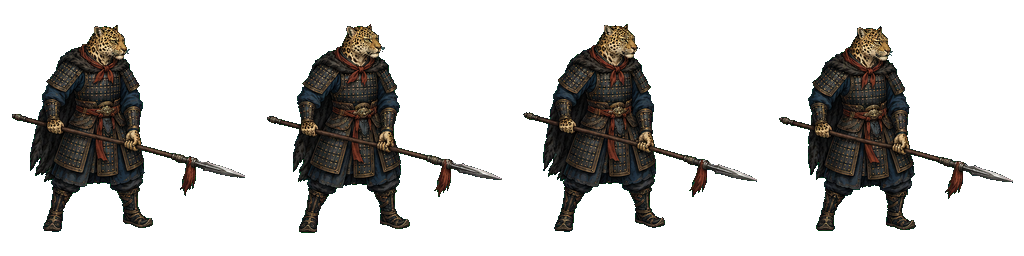
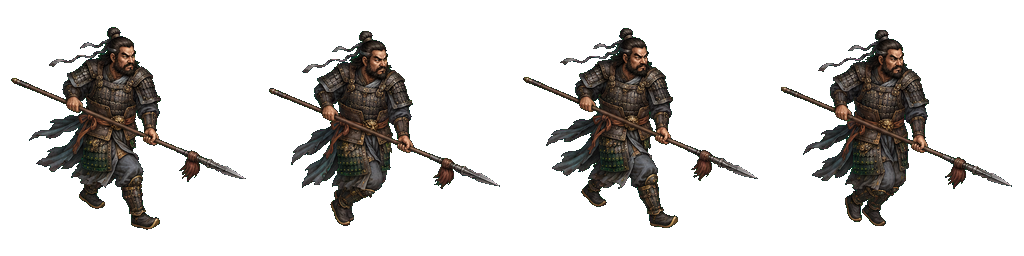
林冲站立图修复 + 108将图鉴美术生成需求MD（交Codex出图）
- 修复林冲 idle 立绘把诨名「豹子头」误画成豹子脑袋：用其干净的 walk 帧带顶替
  lin_chong_idle.png（站立=轻微踏步，人物正确）；豹头版备份在 scratchpad
- 新增 ART_REQUEST_108.md：为图鉴补齐梁山一百单八将美术的完整 Codex 出图需求——
  绿幕2×2走/攻模板 + 浅灰3×3头像模板 + 全108将逐人 CHAR 外形锁定 + 头像分张表
  + 走攻文件清单 + zip 打包指令。用户交 Codex 出图、回传 zip，我侧切图管线接入引擎

diff --git a/ART_REQUEST_108.md b/ART_REQUEST_108.md
@@ -1,0 +1,252 @@
+# 水浒一百单八将 · 图鉴美术生成需求（交 Codex 出图）
+
+本文件给 **Codex / 图像模型** 出图用。目标：为《水浒英雄传》图鉴补齐**梁山一百单八将**的美术。
+每将三类图：**头像**（图鉴大图）、**移动动画**、**攻击动画**。出完按 §6 打包成一个 zip 发回即可，
+我这边有切图管线（绿幕抠像 + 头像九宫切分）自动导入引擎。
+
+> 体量提示：108 将里约 30 位已有立绘（见 §5 标「已有」者**跳过**）。需新作的约 **78 位**。
+> 头像走九宫拼图（9人/张，约 9 张）；走/攻是每人一张绿幕 2×2（约 78×2≈156 张）。
+> **建议分批跑**：先跑 §3「天罡 36」，验证质量与命名无误后再跑 §4「地煞 72」。
+
+---
+
+## 0. 通用规范（所有图必须遵守）
+
+- **画风**：南宋工笔（gongbi）水浒人物画，线描精细、设色古雅；游戏 AoE2 式 **斜 45° 俯视**，角色 **3/4 侧身朝右**。
+- **两种背景，严格区分**：
+  - **头像图**：纯 **浅灰底**（约 `#d9d9d9`，左右一致、无渐变无纹理），**3×3 九宫格**，每格一人**胸像/半身**，居中。
+  - **走/攻动画图**：纯 **绿幕底**（chroma green `#00b140`，纯色无渐变），**2×2 四格**，每格一帧全身像。
+- **一致性铁律（最重要）**：同一武将的**头像 / 走 / 攻**三张图，以及走/攻的**四帧之间**，必须是**同一个人**——
+  同样的脸型、胡须、发冠、衣甲款式、**配色**、武器。每个武将我给了一段 **CHAR 外形锁定**（见 §3/§4），
+  **三张图都照抄这段 CHAR**，只改动作。宁可朴素一致，**不要每张漂成另一个人**。
+- **无文字**：图上不要写字、不要花名、不要边框装饰。
+- **人物为主**：占满格、动作清晰可辨；兵器、招式要能一眼看出身份。
+
+---
+
+## 1. 走 / 攻动画模板（绿幕 2×2，每人两张）
+
+> 用法：把某将的 `CHAR` 段填进 `<CHAR>`，分别套「走」和「攻」两套帧描述，各出一张 2×2 绿幕图。
+> 文件名：走 = `walk_<key>.png`，攻 = `attack_<key>.png`（`<key>` 见 §3/§4）。
+
+**共用头（HEADER）**
+```
+Song-dynasty Chinese gongbi painting, Water Margin hero. Top-down 3/4 isometric game view (AoE2 angle),
+character facing RIGHT. FLAT PURE GREEN screen background #00b140, no shadow on ground, no border lines.
+A 2x2 grid = 4 animation keyframes of THE SAME character, IDENTICAL face/beard/headwear/armor/COLORS/weapon
+in all four cells. <CHAR>
+```
+
+**走（walk cycle）帧块**
+```
+WALK CYCLE, 4 keyframes (read left→right, top→bottom):
+[TL] contact pose, right foot forward, weight on right leg;
+[TR] passing pose, legs together and lifted, mid-stride;
+[BL] contact pose, left foot forward, weight on left leg;
+[BR] passing pose, legs together, mid-stride. Natural marching gait, weapon held ready.
+```
+
+**攻（attack）帧块**
+```
+ATTACK swing, 4 keyframes (read left→right, top→bottom):
+[TL] wind-up, weapon drawn back;
+[TR] step-in, weapon rising;
+[BL] full strike, weapon thrust/slashed forward at the enemy (most extended);
+[BR] recover, weapon returning. Powerful, readable martial action with the character's signature weapon.
+```
+
+> 远程将（弓/弩/飞石/飞枪/火炮）：攻击块改为「举弓→拉满→放箭/掷出→收势」之类对应动作（CHAR 里注明武器）。
+> 法术将（公孙胜、樊瑞、凌振等）：攻击块改为「掐诀→凝法→掷出符火/雷火→收势」。
+
+---
+
+## 2. 头像模板（浅灰 3×3，9 人一张）
+
+> 一张图画 9 个人的胸像，3×3 排列。我按 §5 的「头像分张表」给出每张图的 9 个人与**格位顺序**
+> （从左到右、从上到下：格1=左上 … 格9=右下）。文件名：`portraits<N>_raw.png`（N 见 §5）。
+
+```
+Nine separate Song-dynasty gongbi BUST portraits of Water Margin heroes in a clean 3x3 grid,
+FLAT LIGHT-GRAY background #d9d9d9 (uniform, no gradient), each face centered in its cell,
+no text, no frame. Each person matches their CHAR description exactly (face/beard/headwear/COLORS).
+Order left→right, top→bottom:
+1) <CHAR person 1> ; 2) <CHAR person 2> ; 3) <CHAR person 3> ;
+4) <...> ; 5) <...> ; 6) <...> ; 7) <...> ; 8) <...> ; 9) <...>
+```
+
+---
+
+## 3. 天罡星 三十六员（座次 · 星号 · 诨名 · 姓名 · key · CHAR 外形锁定）
+
+> 「已有」= 引擎里已有立绘，**美术可跳过**（仍列出供命名/校对一致）。其余请按 §1/§2 出三类图。
+
+1. **天魁星 · 呼保义 · 宋江** `song_jiang` —— 已有。CHAR：中年文官将领，面白微须，戴黑色软翅幞头，深橄榄褐战袍罩鎏金札甲、玄色披风，腰悬佩剑，神色沉稳。
+2. **天罡星 · 玉麒麟 · 卢俊义** `lu_junyi` —— 仪表堂堂的高大武将，白净方面、五绺长须，束金抹额、银白鱼鳞甲配月白战袍，手持一杆点钢长枪，贵气逼人。
+3. **天机星 · 智多星 · 吴用** `wu_yong` —— 已有。CHAR：清癯文士军师，戴东坡巾、三缕须，茶褐道袍，手摇羽扇，腰挂铜链，目光精明。
+4. **天闲星 · 入云龙 · 公孙胜** `gongsun_sheng` —— 已有。CHAR：青须道士，戴青色道冠、石青/teal 道袍绣云纹，手掐法诀或持松纹古剑，仙风道骨。
+5. **天勇星 · 大刀 · 关胜** `guan_sheng` —— 关羽嫡裔，重枣色面、卧蚕眉丹凤眼、五绺美髯过腹，绿锦战袍罩黄铜甲，横一柄青龙偃月大刀，威风凛凛。
+6. **天雄星 · 豹子头 · 林冲** `lin_chong` —— 已有（注意：是**人**，豹子头只是诨名＝豹头环眼似张飞，**绝不画豹子头**）。CHAR：威猛教头，浓眉环眼、络腮短须，束金抹额、深朱与玄黑扎甲，手持丈八蛇矛。
+7. **天猛星 · 霹雳火 · 秦明** `qin_ming` —— 性如烈火的猛将，紫膛脸、虬髯，朱红抹额配火焰纹明光铠、赤红战袍，舞一条狼牙棒（带刺），气势暴烈。
+8. **天威星 · 双鞭 · 呼延灼** `hu_yanzhuo` —— 已有。CHAR：开国名将后裔，黑面浓须，乌铁连环铠、玄青战袍，双手各持一条水磨钢鞭。
+9. **天英星 · 小李广 · 花荣** `hua_rong` —— 已有。CHAR：英俊年少将，眉清目秀无须，束银抹额、月白战袍配轻甲，背负雕弓、手搭羽箭，神射之姿。
+10. **天贵星 · 小旋风 · 柴进** `chai_jin` —— 后周皇族贵公子，白面俊雅、短须，戴玉抹额、华贵锦袍（宝蓝织金）罩薄甲，腰悬玉具剑，气度雍容。
+11. **天富星 · 扑天雕 · 李应** `li_ying` —— 庄园富豪武主，方面长须，深绛锦袍配乌金甲，背插五口飞刀、手持点钢枪，鹰目锐利。
+12. **天满星 · 美髯公 · 朱仝** `zhu_tong` —— 红润长脸、一部**及胸美髯**（似关公），戴皂巾、绛紫战袍配甲，手持朴刀，仪表堂堂。
+13. **天孤星 · 花和尚 · 鲁智深** `lu_zhishen` —— 已有。CHAR：彪形大汉僧人，光头、满背刺青、络腮虬髯，半披皂色直裰露胸膛，横一柄六十二斤水磨禅杖。
+14. **天伤星 · 行者 · 武松** `wu_song` —— 已有。CHAR：八尺头陀，方面英武、短须，皂布直裰、胸前挂念珠、戒箍束发，腰插双戒刀。
+15. **天立星 · 双枪将 · 董平** `dong_ping` —— 风流俊将，白面无须、英气勃勃，束金翎抹额、银甲红袍，**双手各持一杆长枪**，背旗书「英勇双枪」，潇洒善战。
+16. **天捷星 · 没羽箭 · 张清** `zhang_qing` —— 已有。CHAR：年少马将，俊面短须，束抹额、白袍轻甲，腰悬锦囊（盛石子），手扬一枚飞石作掷打势。
+17. **天暗星 · 青面兽 · 杨志** `yang_zhi` —— 已有。CHAR：杨家将后裔，**左脸一片青色胎记**，束发短须，靛青战袍配旧明光甲，背负宝刀。
+18. **天祐星 · 金枪手 · 徐宁** `xu_ning` —— 已有。CHAR：金枪班教师，俊朗短须，戴金抹额、赛唐猊雁翎圈金亮甲，手持一杆纯金枪（钩镰枪法）。
+19. **天空星 · 急先锋 · 索超** `suo_chao` —— 暴躁猛将，紫黑脸膛、虬髯，戴狻猊兜鍪插雉尾，深褐扎甲，抡一柄金蘸斧（大斧），冲锋之姿。
+20. **天速星 · 神行太保 · 戴宗** `dai_zong` —— 已有。CHAR：精瘦快腿，皂色公人短装，**两腿绑甲马符纸**，髡发短须，作疾行飞奔状。
+21. **天异星 · 赤发鬼 · 刘唐** `liu_tang` —— 已有。CHAR：江湖亡命汉，**鬓边一搭朱砂红记**、赤发，紫膛脸、虬髯，褐色短打，手持朴刀，凶悍。
+22. **天杀星 · 黑旋风 · 李逵** `li_kui` —— 已有。CHAR：黑凛凛铁塔大汉，乱发虬髯、赤膊或皂色坎肩，**双手各执一把板斧**，怒目暴烈。
+23. **天微星 · 九纹龙 · 史进** `shi_jin` —— 年少壮汉，**赤裸上身满刺九条青龙**，束发英挺，下着皂裤，手持一条三尖两刃刀，意气风发。
+24. **天究星 · 没遮拦 · 穆弘** `mu_hong` —— 揭阳镇豪强，魁伟方面、短须，深青锦袍配甲，手持朴刀，霸气外露。
+25. **天退星 · 插翅虎 · 雷横** `lei_heng` —— 郓城都头，黄须方脸、身形矫健，皂色公人劲装配护甲，手持朴刀，腰悬铁链，干练。
+26. **天寿星 · 混江龙 · 李俊** `li_jun` —— 水军头领，赤红面膛、短须，束巾、半身水靠（深青），手持长桨/朴刀，作踏浪之姿。
+27. **天剑星 · 立地太岁 · 阮小二** `ruan_brother` —— 已有（代表阮氏）。CHAR：石碣村渔户大哥，赤膊古铜肌、短须，束青巾、下着水裈，手持鱼叉，剽悍。
+28. **天平星 · 船火儿 · 张横** `zhang_heng` —— 浔阳江艄公，瘦健赤膊、束巾，深褐水裈，手持一柄艄公长篙/朴刀，江湖气。
+29. **天罪星 · 短命二郎 · 阮小五** `ruan_xiaowu` —— 阮家二弟，**胸口刺青豹纹**、赤膊精瘦、束巾，叼草，手持鱼叉，桀骜。
+30. **天损星 · 浪里白条 · 张顺** `zhang_shun` —— 已有。CHAR：**通体雪白**的水中好汉，精瘦束巾、白色水裈，手持尖刀作潜水/踏浪状。
+31. **天败星 · 活阎罗 · 阮小七** `ruan_xiaoqi` —— 阮家小弟，最是凶悍，赤膊束巾、面带狠气，手持鱼叉，腰插短刀，野性。
+32. **天牢星 · 病关索 · 杨雄** `yang_xiong` —— 蓟州两院押狱兼刽子，面色微黄（「病」）、短须，皂色公人劲装配护甲，手持一口法刀（鬼头刀），冷峻。
+33. **天慧星 · 拼命三郎 · 石秀** `shi_xiu` —— 已有。CHAR：精悍江湖客，俊面短须、束巾，褐色短打利落，手持朴刀，眼神决绝。
+34. **天暴星 · 两头蛇 · 解珍** `xie_zhen` —— 登州猎户兄长，结实精壮、束巾短打（深褐），背负**钢叉**、披虎皮褡膊，猎户之相。
+35. **天哭星 · 双尾蝎 · 解宝** `xie_bao` —— 解珍之弟，与兄同装、**腿裹虎皮**，手持钢叉、腰插浑铁点钢标，更显凶悍。
+36. **天巧星 · 浪子 · 燕青** `yan_qing` —— 俊美风流少年，**一身遍体花绣（精致刺青）**、束巧抹额，浅色紧身劲装，背负川弩、手持，眉目伶俐。
+
+---
+
+## 4. 地煞星 七十二员（座次 · 星号 · 诨名 · 姓名 · key · CHAR 外形锁定）
+
+37. **地魁星 · 神机军师 · 朱武** `zhu_wu` —— 道装军师，戴道冠、青灰道袍绣八卦，手持羽扇/松纹剑，文谋之相。
+38. **地煞星 · 镇三山 · 黄信** `huang_xin` —— 青州武将，黄须方脸，戴抹额、土黄战袍配乌甲，手持丧门剑（长刀），背旗「镇三山」。
+39. **地勇星 · 病尉迟 · 孙立** `sun_li` —— 登州提辖，面色黄黑（「病」），戴交角铁幞头、乌油黑甲深褐袍，手持竹节钢鞭、背弓，骑将气派。
+40. **地杰星 · 丑郡马 · 宣赞** `xuan_zan` —— 相貌丑怪（卷发暴眼鼻孔朝天），赭红战袍配甲，手持钢刀，武艺高强。
+41. **地雄星 · 井木犴 · 郝思文** `hao_siwen` —— 关胜副将，魁伟短须，青绿战袍配甲，手持方天画戟，沉稳。
+42. **地威星 · 百胜将 · 韩滔** `han_tao` —— 已有。CHAR：陈州团练，方面短须，深红抹额暗甲，手持枣木长槊。
+43. **地英星 · 天目将 · 彭玘** `peng_qi` —— 已有。CHAR：颍州团练，将门相短须，青甲战袍，手持三尖两刃刀。
+44. **地奇星 · 圣水将 · 单廷珪** `shan_tinggui` —— 已有。CHAR：凌州「水将」，冷面短须，水蓝青战袍配银甲，长枪，旁绘水纹法气。
+45. **地猛星 · 神火将 · 魏定国** `wei_dingguo` —— 已有。CHAR：凌州「火将」，赤膛短须，朱红橙战袍配赤铜甲，长刀，旁绘火焰法气。
+46. **地文星 · 圣手书生 · 萧让** `xiao_rang` —— 文士书生，白面清秀短须，戴儒巾青衫，手持毛笔与书卷，斯文。
+47. **地正星 · 铁面孔目 · 裴宣** `pei_xuan` —— 执法判官，铁青冷面短须，皂色官服戴展脚幞头，手持笏板/法笔，威正。
+48. **地阔星 · 摩云金翅 · 欧鹏** `ou_peng` —— 水军豪汉，魁伟短须，褐红战袍配甲，手持长枪、背旗，豪迈。
+49. **地阖星 · 火眼狻猊 · 邓飞** `deng_fei` —— 一双赤红火眼、虬髯，深褐战袍配甲，手持一条铁链锁，凶猛。
+50. **地强星 · 锦毛虎 · 燕顺** `yan_shun` —— 已有。CHAR：清风山头领，赤黄卷发络腮须如虎毛，褐黄战袍皮甲，手持钢刀。
+51. **地暗星 · 锦豹子 · 杨林** `yang_lin` —— 江湖好汉，身披豹纹锦缎短打、束巾短须，背插朴刀，矫健。
+52. **地轴星 · 轰天雷 · 凌振** `ling_zhen` —— 已有。CHAR：第一炮手，戴笠盔深青劲装罩甲，身边一尊铜火炮，点放之姿。
+53. **地会星 · 神算子 · 蒋敬** `jiang_jing` —— 钱粮先生，文士短须，戴方巾绛文袍，手持算盘与账册。
+54. **地佐星 · 小温侯 · 吕方** `lu_fang` —— 仿吕布俊将，束雉尾抹额、大红战袍配亮银甲，手持方天画戟系红缨，英武。
+55. **地佑星 · 赛仁贵 · 郭盛** `guo_sheng` —— 仿薛仁贵白袍将，银白战袍亮甲、俊面无须，手持方天画戟（与吕方成对），英挺。
+56. **地灵星 · 神医 · 安道全** `an_daoquan` —— 杏林国手，温润白面长须，戴方巾淡青医袍，手持药葫芦银针、背药箱，儒雅。
+57. **地兽星 · 紫髯伯 · 皇甫端** `huangfu_duan` —— 兽医马博士，紫红长髯碧眼（西域相），戴笠褐衣，手按马缰持铜铃。
+58. **地微星 · 矮脚虎 · 王英** `wang_ying` —— 矮胖墩实好汉，方脸短须，褐红战袍皮甲，手持双刀，憨勇。
+59. **地慧星 · 一丈青 · 扈三娘** `hu_sanniang` —— 已有。CHAR：英姿女将，柳眉桃面束凤翅金冠，绯红翠绿女战袍配亮银甲，手持日月双刀，马上英雄。
+60. **地暴星 · 丧门神 · 鲍旭** `bao_xu` —— 凶煞大汉，黑脸虬髯带煞气，皂黑短打护甲，手持阔刃大刀，狠戾。
+61. **地然星 · 混世魔王 · 樊瑞** `fan_rui` —— 妖法道将，散发或道冠、玄黑道袍绘星斗符箓，手持流星锤/掐诀，旁绘黑气，妖异。
+62. **地猖星 · 毛头星 · 孔明** `kong_ming` —— 孔家庄大公子，壮汉短须束巾，土褐战袍配甲，手持朴刀，鲁莽（与弟成对）。
+63. **地狂星 · 独火星 · 孔亮** `kong_liang` —— 孔明之弟，年少火爆，褐红短打配甲，手持朴刀。
+64. **地飞星 · 八臂哪吒 · 项充** `xiang_chong` —— 背插二十四把飞刀、手持藤牌与标枪，束发短打、矫捷，步战奇兵。
+65. **地走星 · 飞天大圣 · 李衮** `li_gun` —— 与项充成对，手持藤牌、背插标枪飞剑，束巾短打轻捷，飞步之姿。
+66. **地巧星 · 玉臂匠 · 金大坚** `jin_dajian` —— 刻印巧匠，白净文士短须，戴巾青灰短袍，手持刻刀与玉印，精细。
+67. **地明星 · 铁笛仙 · 马麟** `ma_lin` —— 风流乐将，俊面短须束巾，淡青战袍轻甲，腰横铁笛、手持双刀，飘逸。
+68. **地进星 · 出洞蛟 · 童威** `tong_wei` —— 盐贩水军，赤膛精壮束巾，深青水靠，手持朴刀，水性好（与弟成对）。
+69. **地退星 · 翻江蜃 · 童猛** `tong_meng` —— 童威之弟，同装略瘦，束巾水靠，手持鱼叉/朴刀，踏浪。
+70. **地满星 · 玉幡竿 · 孟康** `meng_kang` —— 身材高白如幡竿，白面短须束巾，浅青劲装，督造船，手持斧凿长杆。
+71. **地遂星 · 通臂猿 · 侯健** `hou_jian` —— 裁缝瘦捷好汉，长臂如猿、束巾茶褐短打，手持朴刀/针线旗，灵巧。
+72. **地周星 · 跳涧虎 · 陈达** `chen_da` —— 少华山头领，壮健虬髯束抹额，褐红战袍皮甲，手持出白点钢枪，骁勇。
+73. **地隐星 · 白花蛇 · 杨春** `yang_chun` —— 少华山头领，精瘦束巾短须，青白短打绘花蛇纹，手持大杆刀，灵狡。
+74. **地异星 · 白面郎君 · 郑天寿** `zheng_tianshou` —— 面白如玉的俊郎君，束巾短须，浅青锦短打轻甲，手持浑铁点钢枪，秀气。
+75. **地理星 · 九尾龟 · 陶宗旺** `tao_zongwang` —— 庄户大汉，憨厚黑壮束巾，土褐短打，手持一柄铁锹（善掘壕），朴实。
+76. **地俊星 · 铁扇子 · 宋清** `song_qing` —— 宋江之弟，白净文雅短须，戴巾绛文袍，手持铁骨折扇，温和。
+77. **地乐星 · 铁叫子 · 乐和** `yue_he` —— 俊秀乐人，眉清目秀束巾，淡青短衫，手持拍板横笛作歌唱状，伶俐。
+78. **地捷星 · 花项虎 · 龚旺** `gong_wang` —— 已有。CHAR：张清副将，满身虎斑刺青、项上虎头，束巾短打，手持飞枪（标枪）。
+79. **地速星 · 中箭虎 · 丁得孙** `ding_desun` —— 已有。CHAR：张清副将，面颊至颈一道箭疤，束巾短打配甲，手持飞叉。
+80. **地镇星 · 小遮拦 · 穆春** `mu_chun` —— 穆弘之弟，壮实短须束巾，青褐战袍皮甲，手持朴刀（与兄成对）。
+81. **地稽星 · 操刀鬼 · 曹正** `cao_zheng` —— 屠户（林冲徒），赤膛壮汉束巾系围裙，手持解牛尖刀/朴刀，刀法利落。
+82. **地魔星 · 云里金刚 · 宋万** `song_wan` —— 极高大魁梧元老，方面虬髯束巾，土褐战袍配甲，手持长枪，憨厚。
+83. **地妖星 · 摸着天 · 杜迁** `du_qian` —— 瘦高个元老（与宋万成对），束巾短须，褐色劲装，手持朴刀，干瘦。
+84. **地幽星 · 病大虫 · 薛永** `xue_yong` —— 卖艺使棒好汉，精壮短须束巾，褐短打护腕，手持哨棒/朴刀，卖艺相。
+85. **地伏星 · 金眼彪 · 施恩** `shi_en` —— 已有。CHAR：快活林少主，壮实俊朗短须束巾，青褐劲装护甲，手持双锏/朴刀。
+86. **地僻星 · 打虎将 · 李忠** `li_zhong` —— 卖艺师父（史进开手师），壮汉短须束巾，茶褐短打，手持长棍/朴刀，江湖气。
+87. **地空星 · 小霸王 · 周通** `zhou_tong` —— 桃花山头领，紫膛壮汉虬髯，戴抹额绛红战袍皮甲，手持点钢枪，鲁莽。
+88. **地孤星 · 金钱豹子 · 汤隆** `tang_long` —— 已有。CHAR：铁匠，满脸麻点黑壮短须束巾，褐劲装系皮围裙，手持铁瓜锤。
+89. **地全星 · 鬼脸儿 · 杜兴** `du_xing` —— 相貌丑怪（鬼脸）短须，土褐短打护甲，李应庄主管，手持朴刀，机警。
+90. **地短星 · 出林龙 · 邹渊** `zou_yuan` —— 登云山草莽，黑壮虬髯束巾，褐短打配甲，手持朴刀，野悍（与侄成对）。
+91. **地角星 · 独角龙 · 邹润** `zou_run` —— 邹渊之侄，后脑生肉瘤如独角、壮健束巾，褐红短打配甲，手持朴刀。
+92. **地囚星 · 旱地忽律 · 朱贵** `zhu_gui` —— 梁山酒店眼线，黄瘦精明短须，戴巾茶褐短袍，手持暗藏朴刀/酒旗，市井机警。
+93. **地藏星 · 笑面虎 · 朱富** `zhu_fu` —— 朱贵之弟，圆胖笑脸短须，戴巾褐短袍系酒围裙，手持挠钩/朴刀，笑里藏奸。
+94. **地平星 · 铁臂膊 · 蔡福** `cai_fu` —— 大名府刽子手（兄），膀大臂粗黑脸短须，皂色公人劲装赤臂，手持鬼头法刀，冷硬。
+95. **地损星 · 一枝花 · 蔡庆** `cai_qing` —— 蔡福之弟，鬓边常簪一花、俊面短须，皂色劲装，手持鬼头刀，俏中带煞。
+96. **地奴星 · 催命判官 · 李立** `li_li` —— 揭阳岭黑店主，黄瘦阴鸷短须，戴巾褐短袍系围裙，手持尖刀，阴狠。
+97. **地察星 · 青眼虎 · 李云** `li_yun` —— 沂水都头，眼珠泛青光、黄须方脸，皂色公人劲装护甲，手持钢刀，刚直。
+98. **地恶星 · 没面目 · 焦挺** `jiao_ting` —— 相扑好汉，面无表情、黑壮赤膊束巾，下着短裈，作相扑摔跤架势，铁面。
+99. **地丑星 · 石将军 · 石勇** `shi_yong` —— 赌徒莽汉，黑壮虬髯束巾，土褐短打护腕，手持朴刀，凶莽。
+100. **地数星 · 小尉迟 · 孙新** `sun_xin` —— 孙立之弟，壮健短须束抹额，褐红战袍皮甲，手持长枪（与顾大嫂成对）。
+101. **地阴星 · 母大虫 · 顾大嫂** `gu_dasao` —— 彪悍女将，圆脸短打束巾包头，褐红劲装系围裙，手持两口大刀，泼辣勇猛。
+102. **地刑星 · 菜园子 · 张青** `zhang_qing_cai` —— 十字坡黑店主，壮汉短须束巾，茶褐短打系围裙，手持朴刀，憨直。（注意：与没羽箭张清 `zhang_qing` 不同人）
+103. **地壮星 · 母夜叉 · 孙二娘** `sun_erniang` —— 十字坡女店主，泼辣艳悍束巾插钗，绯红短打系血围裙、袖口高挽，手持尖刀，凶艳。
+104. **地劣星 · 活闪婆 · 王定六** `wang_dingliu` —— 江边卖酒瘦捷好汉，身轻如闪束巾短须，浅褐紧身短打，手持朴刀，作疾步状。
+105. **地健星 · 险道神 · 郁保四** `yu_baosi` —— 身长一丈的巨汉（曾头市降将），魁梧黑壮束巾，土褐战袍，双手扛一面梁山杏黄大纛旗，掌旗。
+106. **地耗星 · 白日鼠 · 白胜** `bai_sheng` —— 已有。CHAR：安乐村闲汉/赌徒，黄瘦精明束巾，褐挑夫短打，挑一副酒担，市井相。
+107. **地贼星 · 鼓上蚤 · 时迁** `shi_qian` —— 瘦小灵巧飞贼，黑衣夜行紧身束巾、蒙面巾垂，作攀爬轻功跳跃，背包袱，鼠相机灵。
+108. **地狗星 · 金毛犬 · 段景住** `duan_jingzhu` —— 盗马好汉，赤黄卷发黄须（金毛）、焦黄面，戴笠褐劲装，手牵骏马持马鞭，北地相。
+
+---
+
+## 5. 头像分张表（浅灰 3×3，每张 9 人，按格位顺序）
+
+> 每张 `portraits<N>_raw.png` 用 §2 模板，9 个人各照其在 §3/§4 的 **CHAR** 画胸像。
+> 格位顺序：**格1=左上、格2=中上、格3=右上、格4=左中、格5=正中、格6=右中、格7=左下、格8=中下、格9=右下**。
+> （「已有」的约 30 位**不在**此表，他们已有头像，不必重画。）
+
+- **portraits10_raw.png**：卢俊义 `lu_junyi`、关胜 `guan_sheng`、秦明 `qin_ming`、柴进 `chai_jin`、李应 `li_ying`、朱仝 `zhu_tong`、董平 `dong_ping`、索超 `suo_chao`、史进 `shi_jin`
+- **portraits11_raw.png**：穆弘 `mu_hong`、雷横 `lei_heng`、李俊 `li_jun`、张横 `zhang_heng`、阮小五 `ruan_xiaowu`、阮小七 `ruan_xiaoqi`、杨雄 `yang_xiong`、解珍 `xie_zhen`、解宝 `xie_bao`
+- **portraits12_raw.png**：燕青 `yan_qing`、朱武 `zhu_wu`、黄信 `huang_xin`、孙立 `sun_li`、宣赞 `xuan_zan`、郝思文 `hao_siwen`、萧让 `xiao_rang`、裴宣 `pei_xuan`、欧鹏 `ou_peng`
+- **portraits13_raw.png**：邓飞 `deng_fei`、杨林 `yang_lin`、蒋敬 `jiang_jing`、吕方 `lu_fang`、郭盛 `guo_sheng`、安道全 `an_daoquan`、皇甫端 `huangfu_duan`、王英 `wang_ying`、鲍旭 `bao_xu`
+- **portraits14_raw.png**：樊瑞 `fan_rui`、孔明 `kong_ming`、孔亮 `kong_liang`、项充 `xiang_chong`、李衮 `li_gun`、金大坚 `jin_dajian`、马麟 `ma_lin`、童威 `tong_wei`、童猛 `tong_meng`
+- **portraits15_raw.png**：孟康 `meng_kang`、侯健 `hou_jian`、陈达 `chen_da`、杨春 `yang_chun`、郑天寿 `zheng_tianshou`、陶宗旺 `tao_zongwang`、宋清 `song_qing`、乐和 `yue_he`、穆春 `mu_chun`
+- **portraits16_raw.png**：曹正 `cao_zheng`、宋万 `song_wan`、杜迁 `du_qian`、薛永 `xue_yong`、李忠 `li_zhong`、周通 `zhou_tong`、杜兴 `du_xing`、邹渊 `zou_yuan`、邹润 `zou_run`
+- **portraits17_raw.png**：朱贵 `zhu_gui`、朱富 `zhu_fu`、蔡福 `cai_fu`、蔡庆 `cai_qing`、李立 `li_li`、李云 `li_yun`、焦挺 `jiao_ting`、石勇 `shi_yong`、孙新 `sun_xin`
+- **portraits18_raw.png**：顾大嫂 `gu_dasao`、张青(菜园子) `zhang_qing_cai`、孙二娘 `sun_erniang`、王定六 `wang_dingliu`、郁保四 `yu_baosi`、时迁 `shi_qian`、段景住 `duan_jingzhu`（仅 7 人，格8、格9 留空即可，或随意补两张梁山喽啰头像）
+
+---
+
+## 6. 走 / 攻动画清单（绿幕 2×2，每人两张：`walk_<key>.png` + `attack_<key>.png`）
+
+> 对**下列 79 个 key 的每一个**，用 §1 模板各出两张：移动 `walk_<key>.png`、攻击 `attack_<key>.png`，
+> 人物外形照其在 §3/§4 的 **CHAR**。远程/法术将的攻击动作见 §1 末尾说明。
+
+```
+lu_junyi guan_sheng qin_ming chai_jin li_ying zhu_tong dong_ping suo_chao shi_jin
+mu_hong lei_heng li_jun zhang_heng ruan_xiaowu ruan_xiaoqi yang_xiong xie_zhen xie_bao yan_qing
+zhu_wu huang_xin sun_li xuan_zan hao_siwen xiao_rang pei_xuan ou_peng deng_fei yang_lin
+jiang_jing lu_fang guo_sheng an_daoquan huangfu_duan wang_ying bao_xu fan_rui kong_ming kong_liang
+xiang_chong li_gun jin_dajian ma_lin tong_wei tong_meng meng_kang hou_jian chen_da yang_chun
+zheng_tianshou tao_zongwang song_qing yue_he mu_chun cao_zheng song_wan du_qian xue_yong li_zhong
+zhou_tong du_xing zou_yuan zou_run zhu_gui zhu_fu cai_fu cai_qing li_li li_yun
+jiao_ting shi_yong sun_xin gu_dasao zhang_qing_cai sun_erniang wang_dingliu yu_baosi shi_qian duan_jingzhu
+```
+
+弓/弩/飞掷类（攻击=放箭/掷物）：`hua_rong`(已有) `huang_xin`(背弓) `xie_zhen` `xie_bao`(钢叉可近战) `yan_qing`(川弩) `xiang_chong` `li_gun`(标枪) `gong_wang`(飞枪,已有) `ding_desun`(飞叉,已有) `huang_xin` `sun_li`(背弓)。
+法术类（攻击=掷符火/雷火/掐诀）：`zhu_wu` `fan_rui`（黑气流星锤）`ling_zhen`(已有,火炮)。
+
+---
+
+## 7. 打包发回（一个 zip）
+
+把所有生成的 PNG（**原始大图**，不要自己切）放在同一目录，按本文件的文件名命名，然后：
+
+```bash
+cd <你的输出目录>
+zip -j codex_art_108.zip portraits1[0-8]_raw.png walk_*.png attack_*.png
+```
+
+- `-j`：只打包文件本身、不带目录层级（我这边解压即用）。
+- 确认 zip 里：头像 `portraits10_raw.png … portraits18_raw.png`（约 9 张）；走/攻 `walk_*.png`、`attack_*.png`（约 79×2 张）。
+- **分批发也行**：例如先发 `portraits10/11`＋天罡那批 `walk_/attack_`，我先接进引擎看效果，再发地煞批。
+
+> 收到 zip 后我会：解压→`CG_DIR=<dir>` 跑 `cut_anim.gd` 抠绿幕切走/攻帧带→`process_sheets.gd` 切头像九宫→
+> 在 `art_db.gd` 登记 `PORTRAIT10..18_CELLS`→`--import`→图鉴即显示这 108 将的头像/移动/攻击/生平。